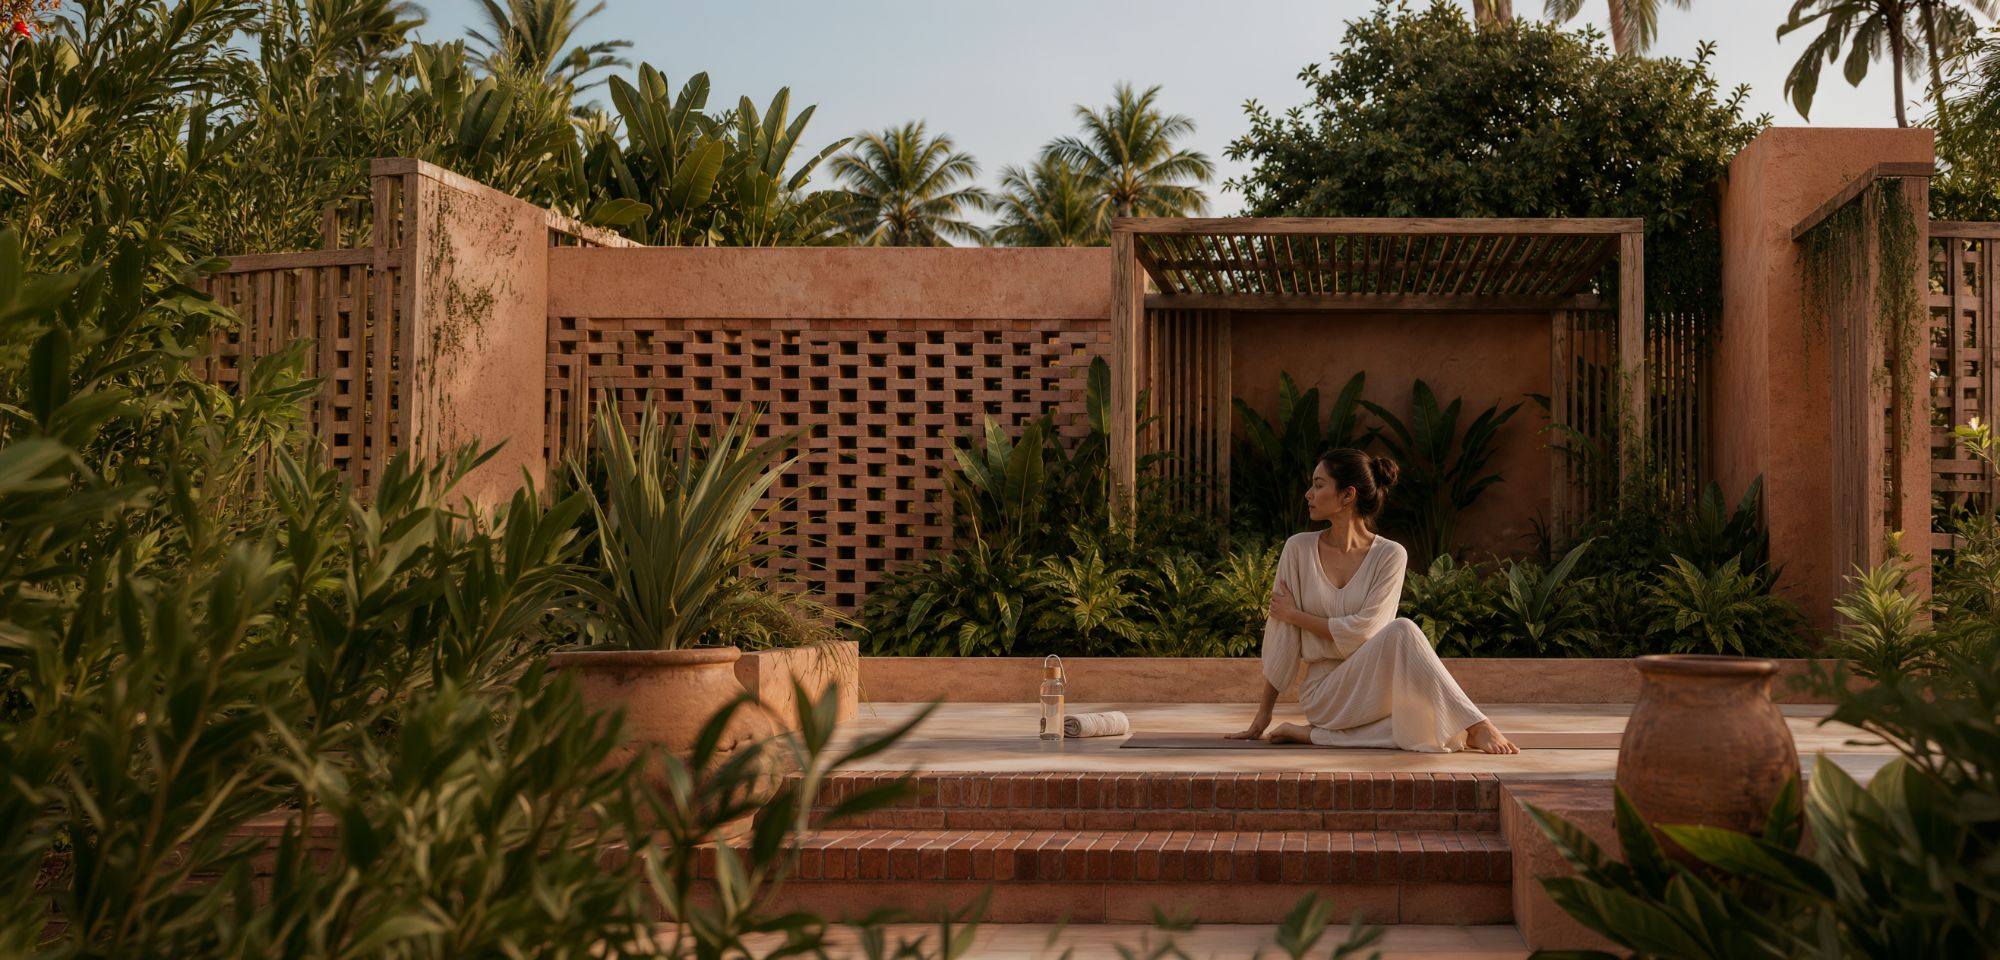
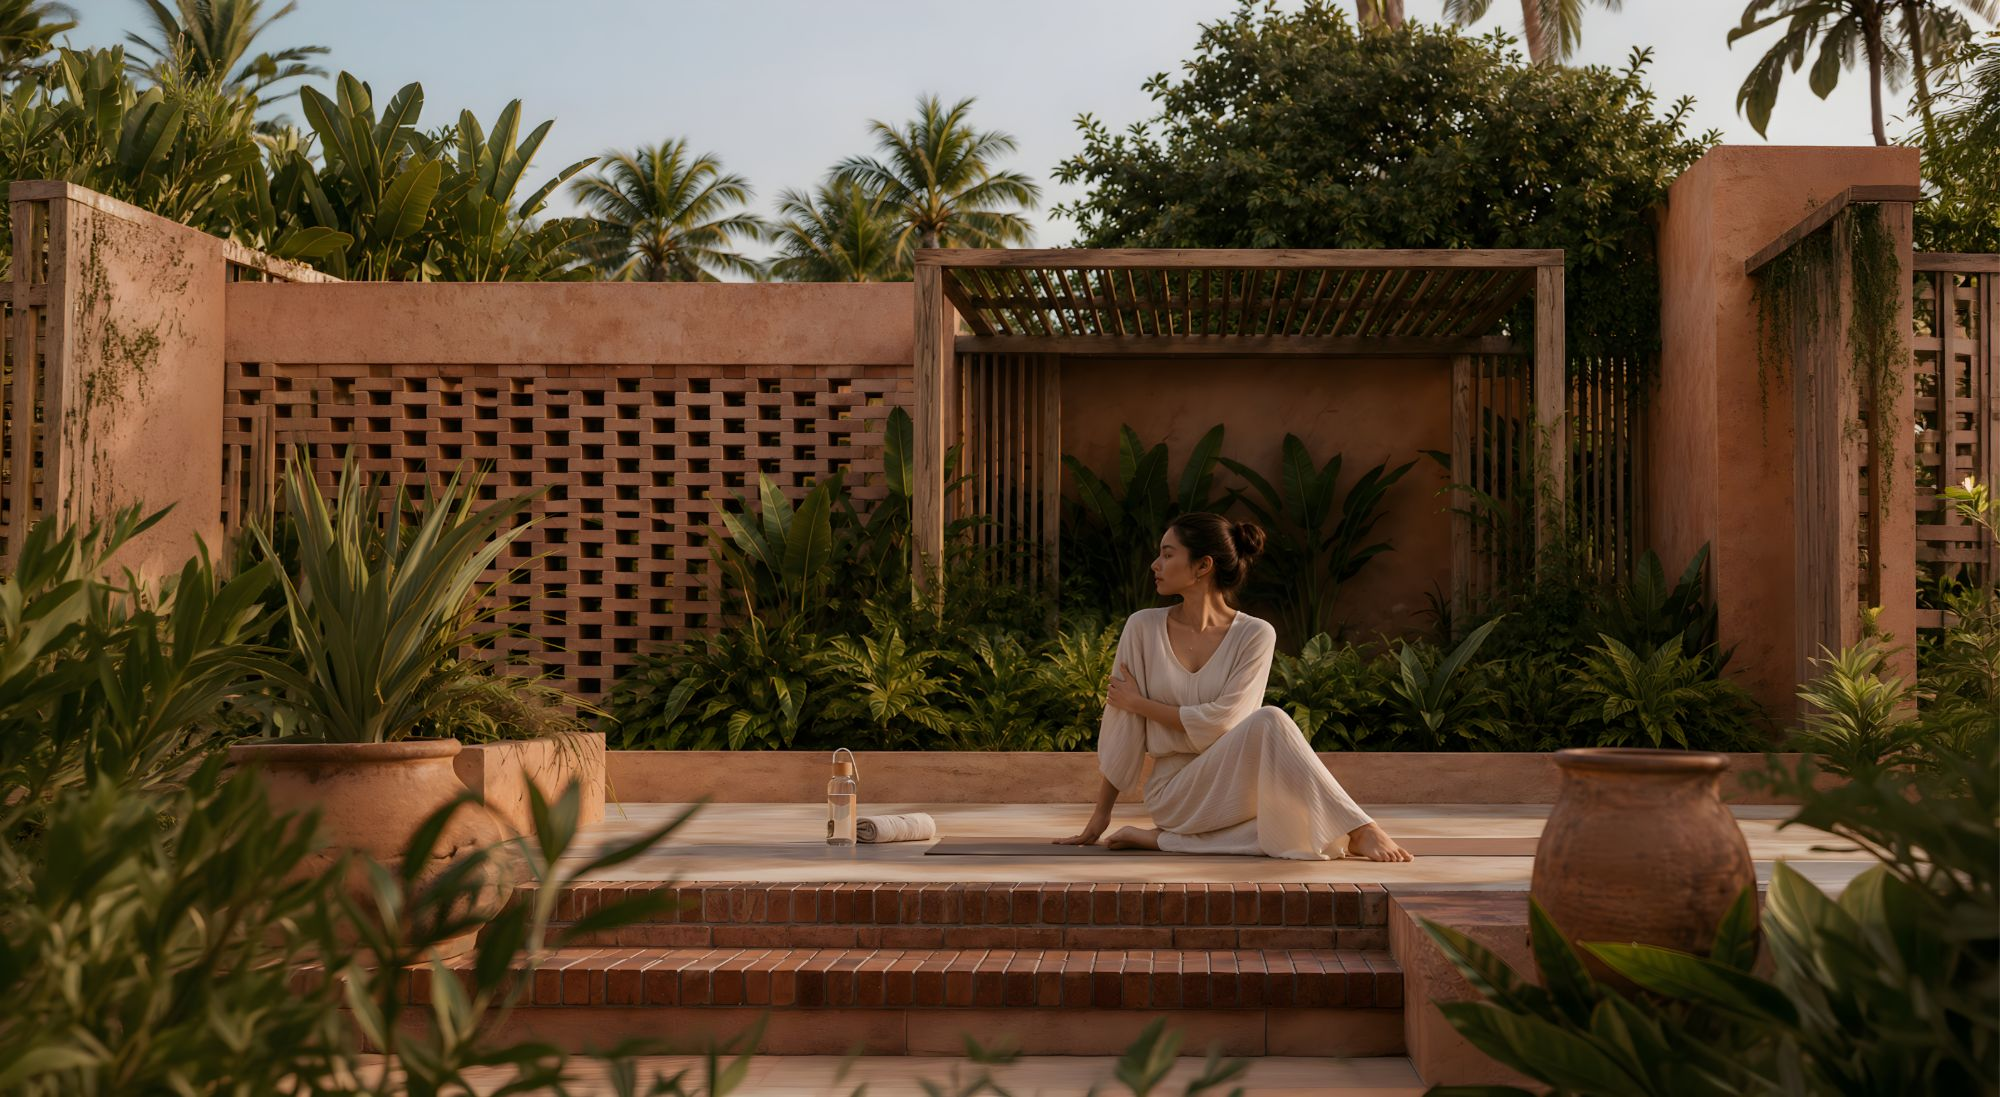
Replace the wellness cover with the sharper yoga deck photo
Claude-Session: https://claude.ai/code/session_01CeNxHXC7xbrvAVUy3UxxkZ

diff --git a/src/styles.css b/src/styles.css
@@ -939,9 +939,9 @@ em {
   height: 100%;
   object-fit: cover;
 }
-/* the woman on the yoga deck sits right of centre — keep her in frame on portrait screens */
+/* the woman on the yoga deck sits right of centre: keep her in frame on portrait screens */
 #wellness .cover__media img {
-  object-position: 73% 50%;
+  object-position: 62% 50%;
 }
 @media (min-width: 900px) {
   #wellness .cover__media img {
